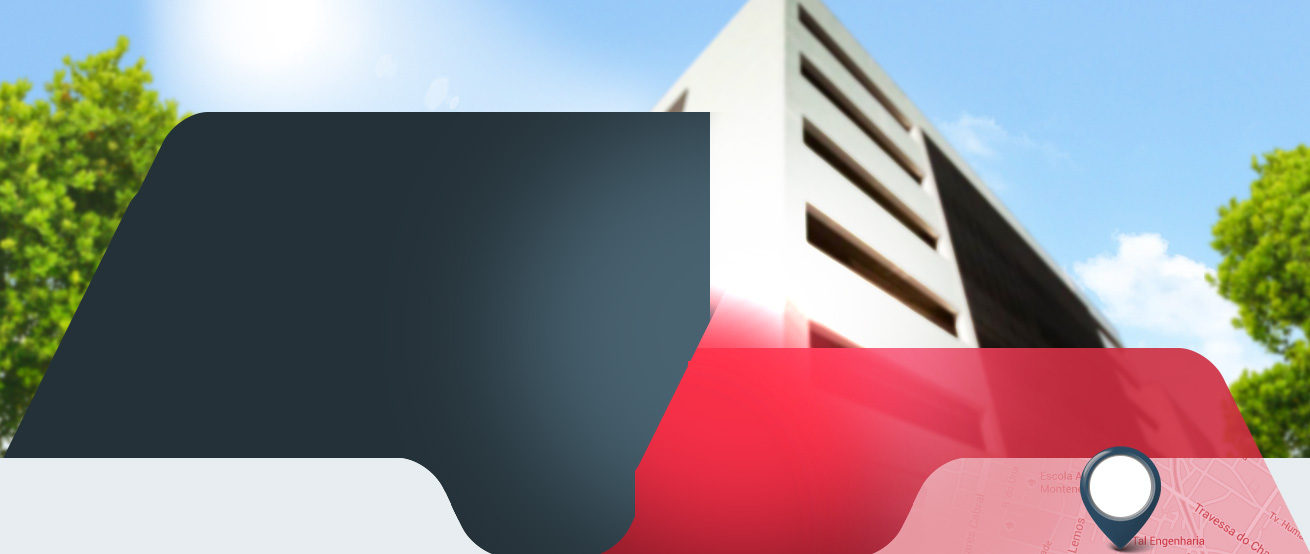
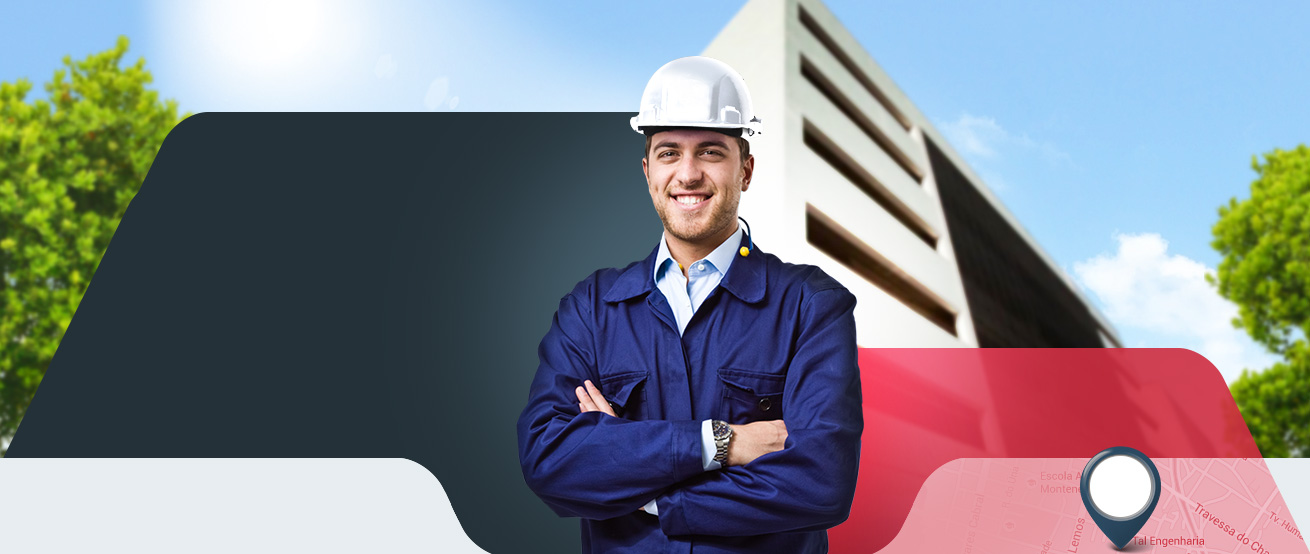
Diagramação da home

Changed region(s): [[0.3969, 0.0921, 0.6718, 1.0]]

diff --git a/public_html/css/site.css b/public_html/css/site.css
@@ -222,13 +222,51 @@ a {
   width: 1920px;
   margin: 0 auto;
 }
+.site-inner-container {
+  width: 1310px;
+  margin: 0 auto;
+}
 #CONTENT {
   min-height: 300px;
 }
 #CONTENT .extra-central {
-  width: 1920px;
-  height: 557px;
-  background-image: url('/imagem/site/bg-topo-home.jpg');
+  width: 100%;
+  background-image: url('/imagem/site/bg-central.jpg');
+  background-repeat: no-repeat;
+  background-position: top center;
+  height: 600px;
+}
+#CONTENT .marker li {
+  display: inline-block;
+  margin-right: 10px;
+}
+#CONTENT .marker li a {
+  display: block;
+  background-color: #FFFFFF;
+  width: 10px;
+  height: 10px;
+  border-radius: 50%;
+}
+#CONTENT .bloco-solucoes {
+  padding-top: 150px;
+}
+#CONTENT .bloco-solucoes p {
+  color: #FFFFFF;
+}
+#CONTENT .bloco-solucoes .media-heading {
+  font-size: 50px;
+  line-height: 52px;
+  margin-bottom: 40px;
+}
+#CONTENT .bloco-solucoes button {
+  width: 157px;
+  height: 48px;
+  background-color: #ce2d40;
+  border-radius: 8px;
+  color: #ffffff;
+}
+ul li {
+  list-style: none;
 }
 .media-heading {
   font-size: 30px;

diff --git a/public_html/css/less/site.less b/public_html/css/less/site.less
@@ -138,13 +138,57 @@ JQUERY UI END
   margin:0 auto;
 }
 
+.site-inner-container{
+  width:1310px;
+  margin:0 auto;
+}
+
 #CONTENT{
   min-height: 300px;
   .extra-central{
-     width:1920px;
-     height:557px;
-    background-image: url('/imagem/site/bg-topo-home.jpg');
+     width:100%;
+     background-image: url('/imagem/site/bg-central.jpg');
+     background-repeat: no-repeat;
+     background-position: top center;
+     height:600px;
   }
+  .marker{
+    li{
+      display:inline-block;
+      margin-right:10px;
+      a{
+        display:block;
+        background-color: #FFFFFF;
+        width:10px;
+        height:10px;
+        border-radius: 50%;
+
+      }
+    }
+  }
+
+  .bloco-solucoes{
+    padding-top:150px;
+    p{
+      color:#FFFFFF;
+    }
+    .media-heading{
+      font-size: 50px;
+      line-height: 52px;
+      margin-bottom:40px;
+    }
+    button{
+      width:157px;
+      height:48px;
+      background-color: #ce2d40;
+      border-radius: 8px;
+      color:#ffffff;
+    }
+  }
+}
+
+ul li{
+  list-style: none;
 }
 
 .media-heading{
